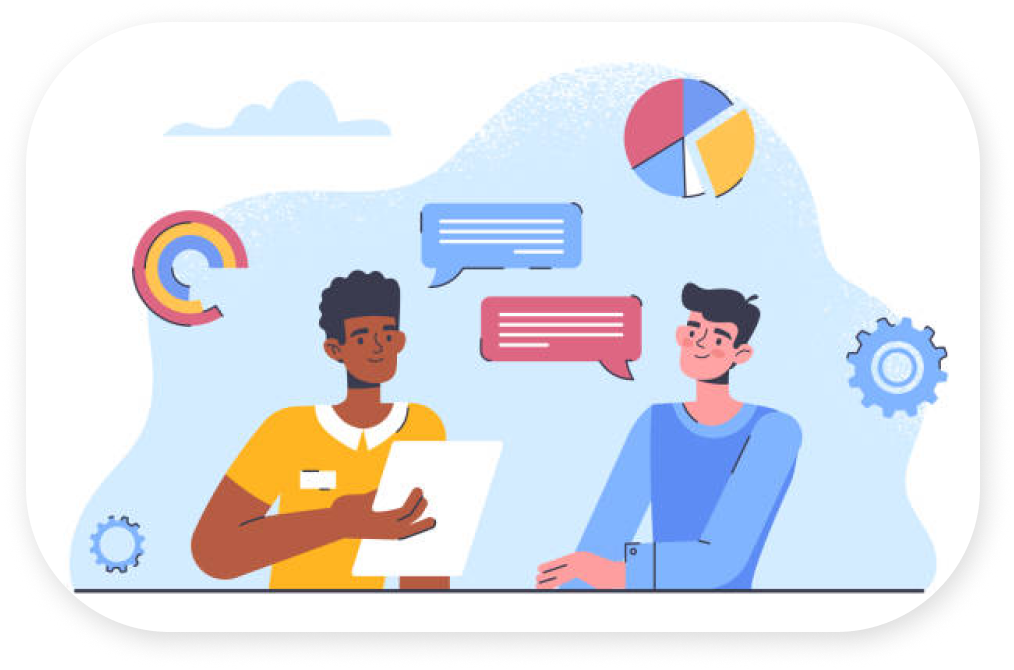
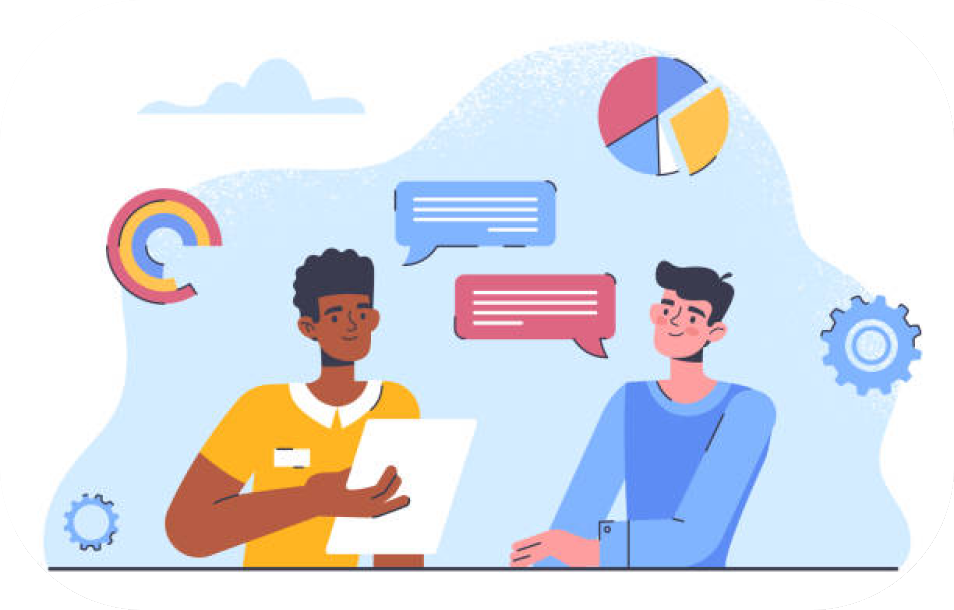
frontend3

diff --git a/frontend/src/components/sections/Hero.css b/frontend/src/components/sections/Hero.css
@@ -3,13 +3,14 @@
     align-items: center;
     justify-content: center;
     margin: auto;
-    width: 80%;
+    width: 68%;
 }
 
 .hero-title {
     font-size: 3.5vw;
     font-weight: 750;
-    margin-bottom: 0.5em;
+    margin-bottom: 0em;
+    line-height: 1.25em;
 }
 
 .hero-description {
@@ -17,21 +18,24 @@
     color: rgba(21, 20, 57, 0.4);
     letter-spacing: .05em;
     margin-bottom: 15%;
+    line-height: 1.6em;
 }
 
 .hero-img {
-    width: 50%;
+    width: 45%;
     height: auto;
+    margin-left: 4em;
+    border-radius: 5.5em;
+    box-shadow: 2px 4px 15px rgba(0, 0, 0, 0.15);
 }
 
 .hero-text {
     width: 50%;
-    padding: 2.5em;
 }
 
 .hero-buttons {
     display: flex;
-    gap: 1em;
-    margin: 2em;
     justify-content: space-between;
+    gap: 6%;
+    width: 100%;
 }

diff --git a/frontend/src/components/elements/Button.css b/frontend/src/components/elements/Button.css
@@ -1,18 +1,18 @@
 .btn {
     display: flex;
     align-items: center;
-    padding: 10px 20px;
-    font-size: 16px;
+    padding: 2vh;
     align-items: center;
     justify-content: center;
     border: none;
     cursor: pointer;
-    font-size: 1.2vw;
+    font-size: 2.5vh;
     transition: all 0.3s ease;
     border-radius: 8px;
     background-color: #4070FF;
     color: white;
     border-radius: 10em;
+    width: 100%;
 }
     
 .btn:hover {
@@ -21,5 +21,6 @@
   
 img {
     margin-right: 0.5em;
-    width: 20%;
+    height: 4vh;
+    object-fit: contain;
 }

diff --git a/frontend/src/components/sections/Navbar.css b/frontend/src/components/sections/Navbar.css
@@ -1,7 +1,10 @@
 .nav {
     display: flex;
-    justify-content: space-between;
     align-items: center;
+    justify-content: space-between;
+    margin: auto;
+    width: 68%;
+    padding: 4vh 0;
 }
 
 .nav-title {
